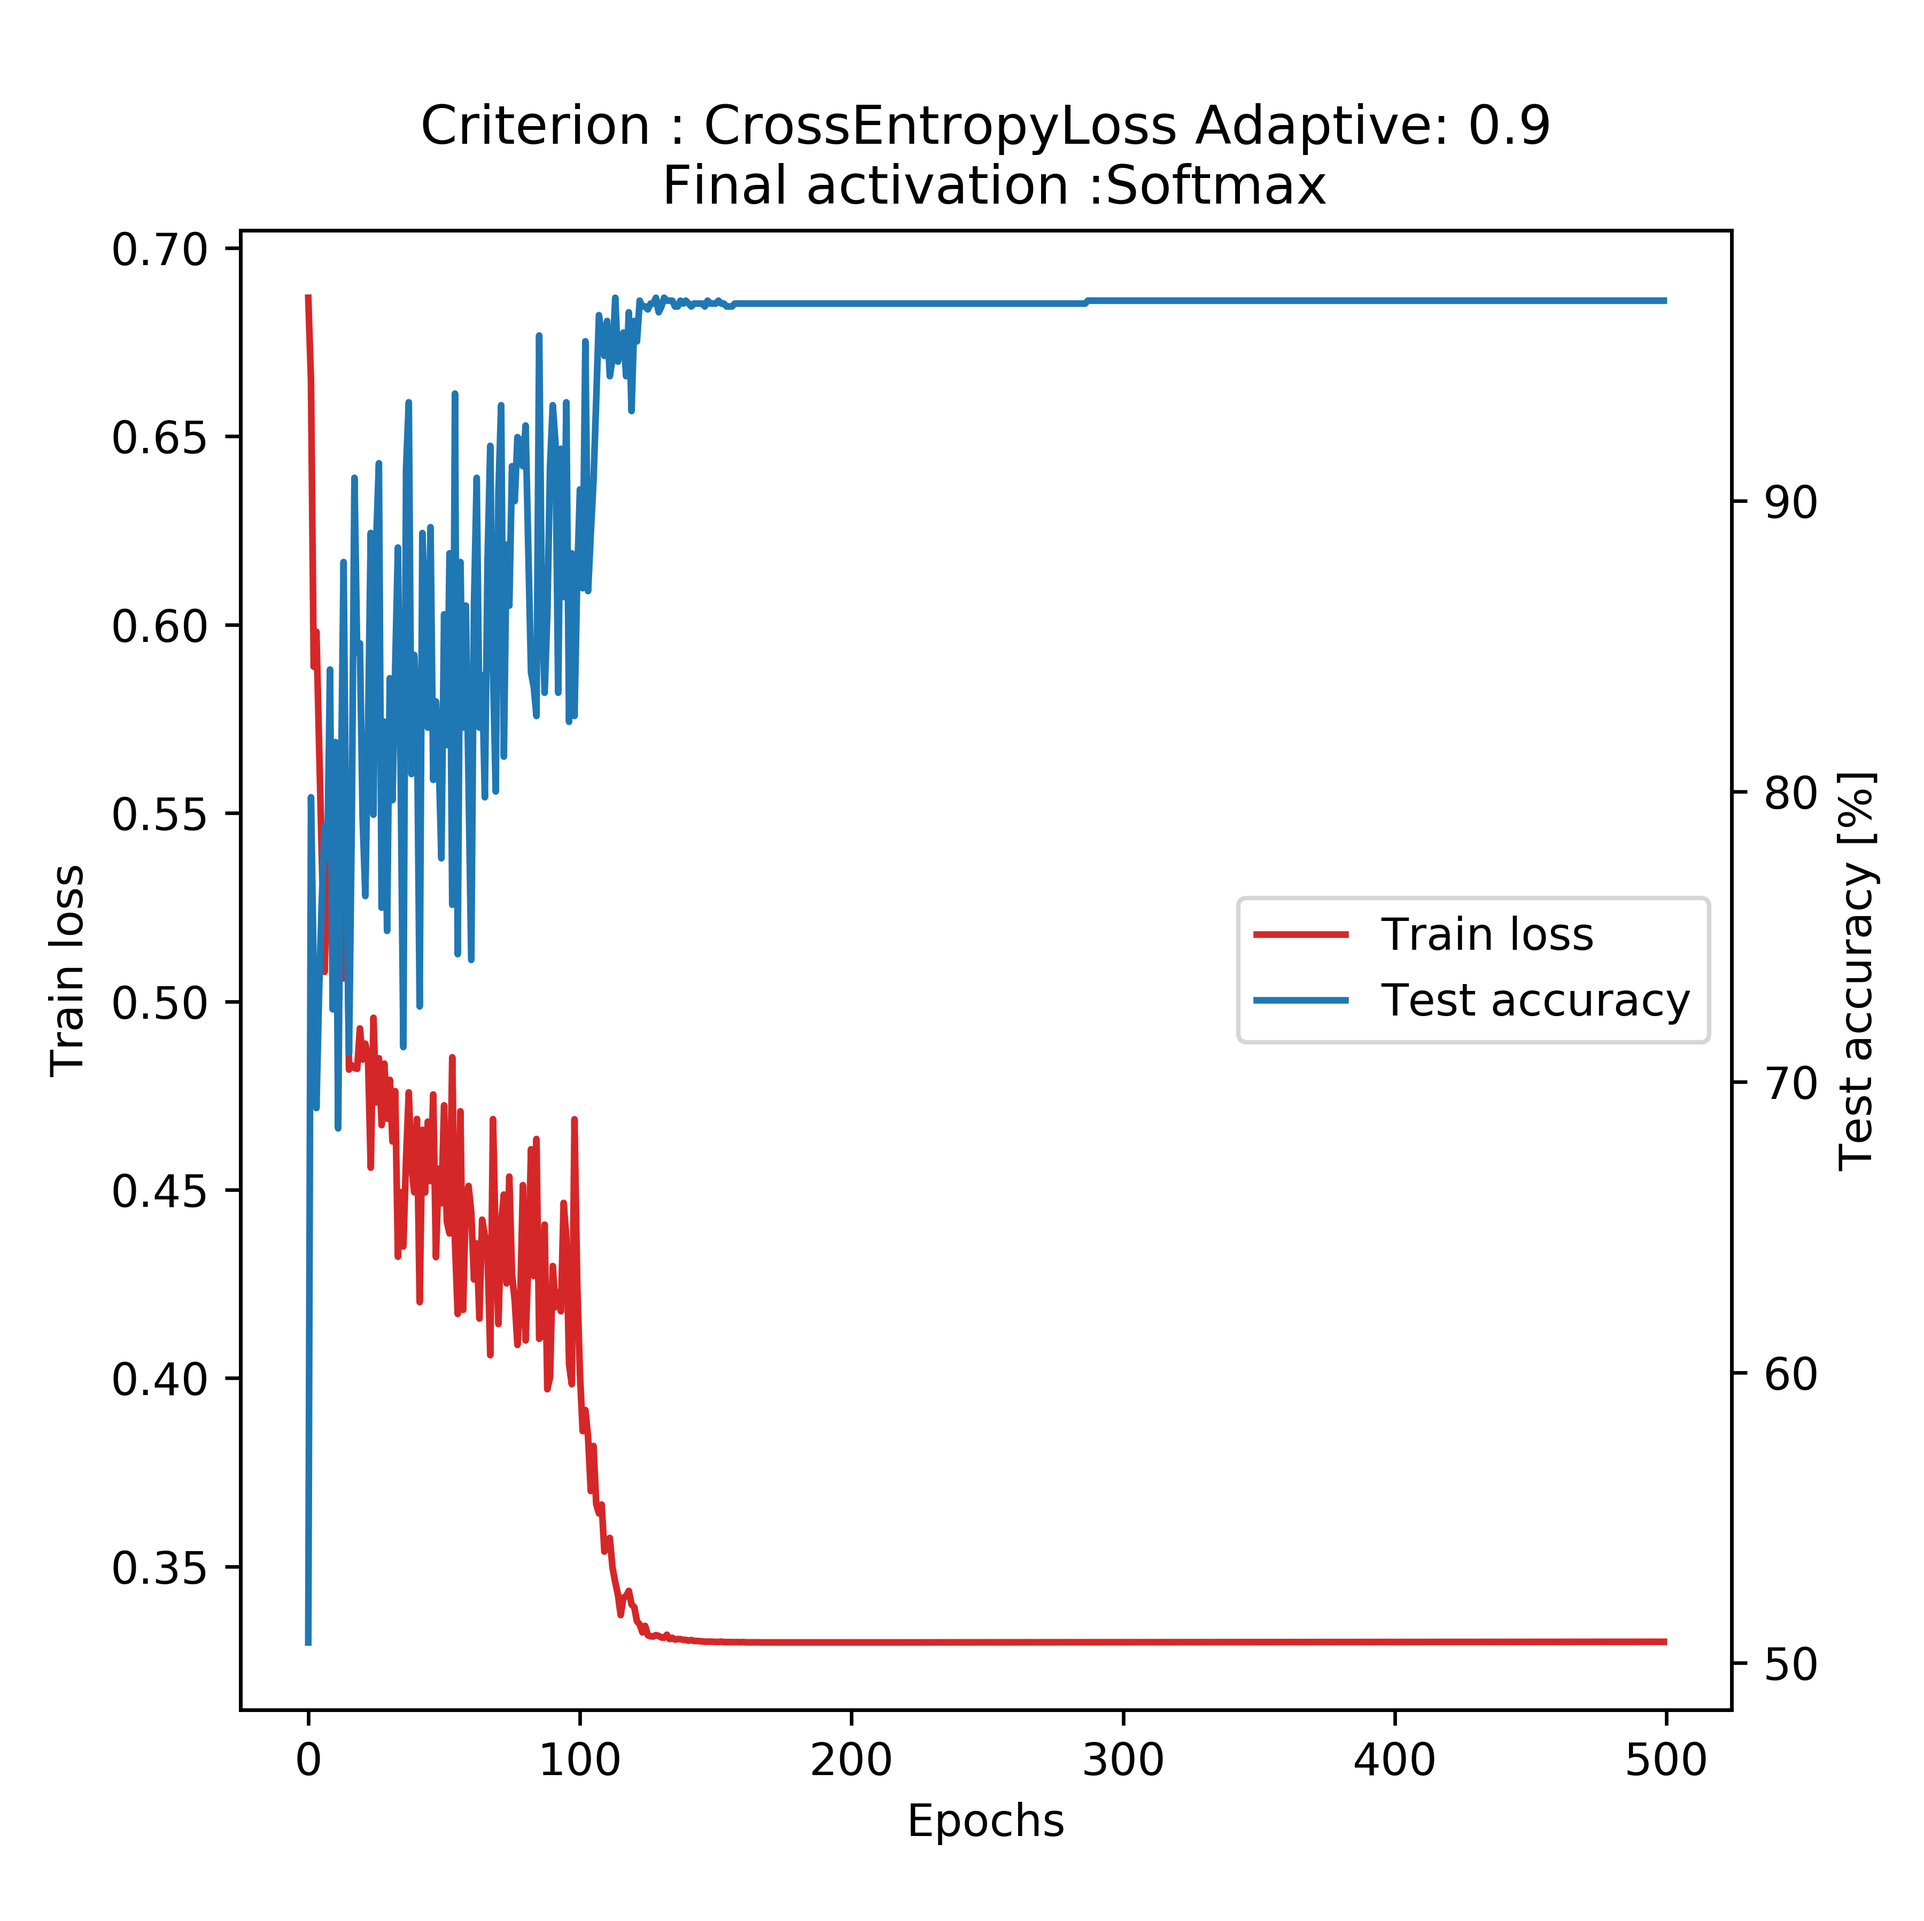
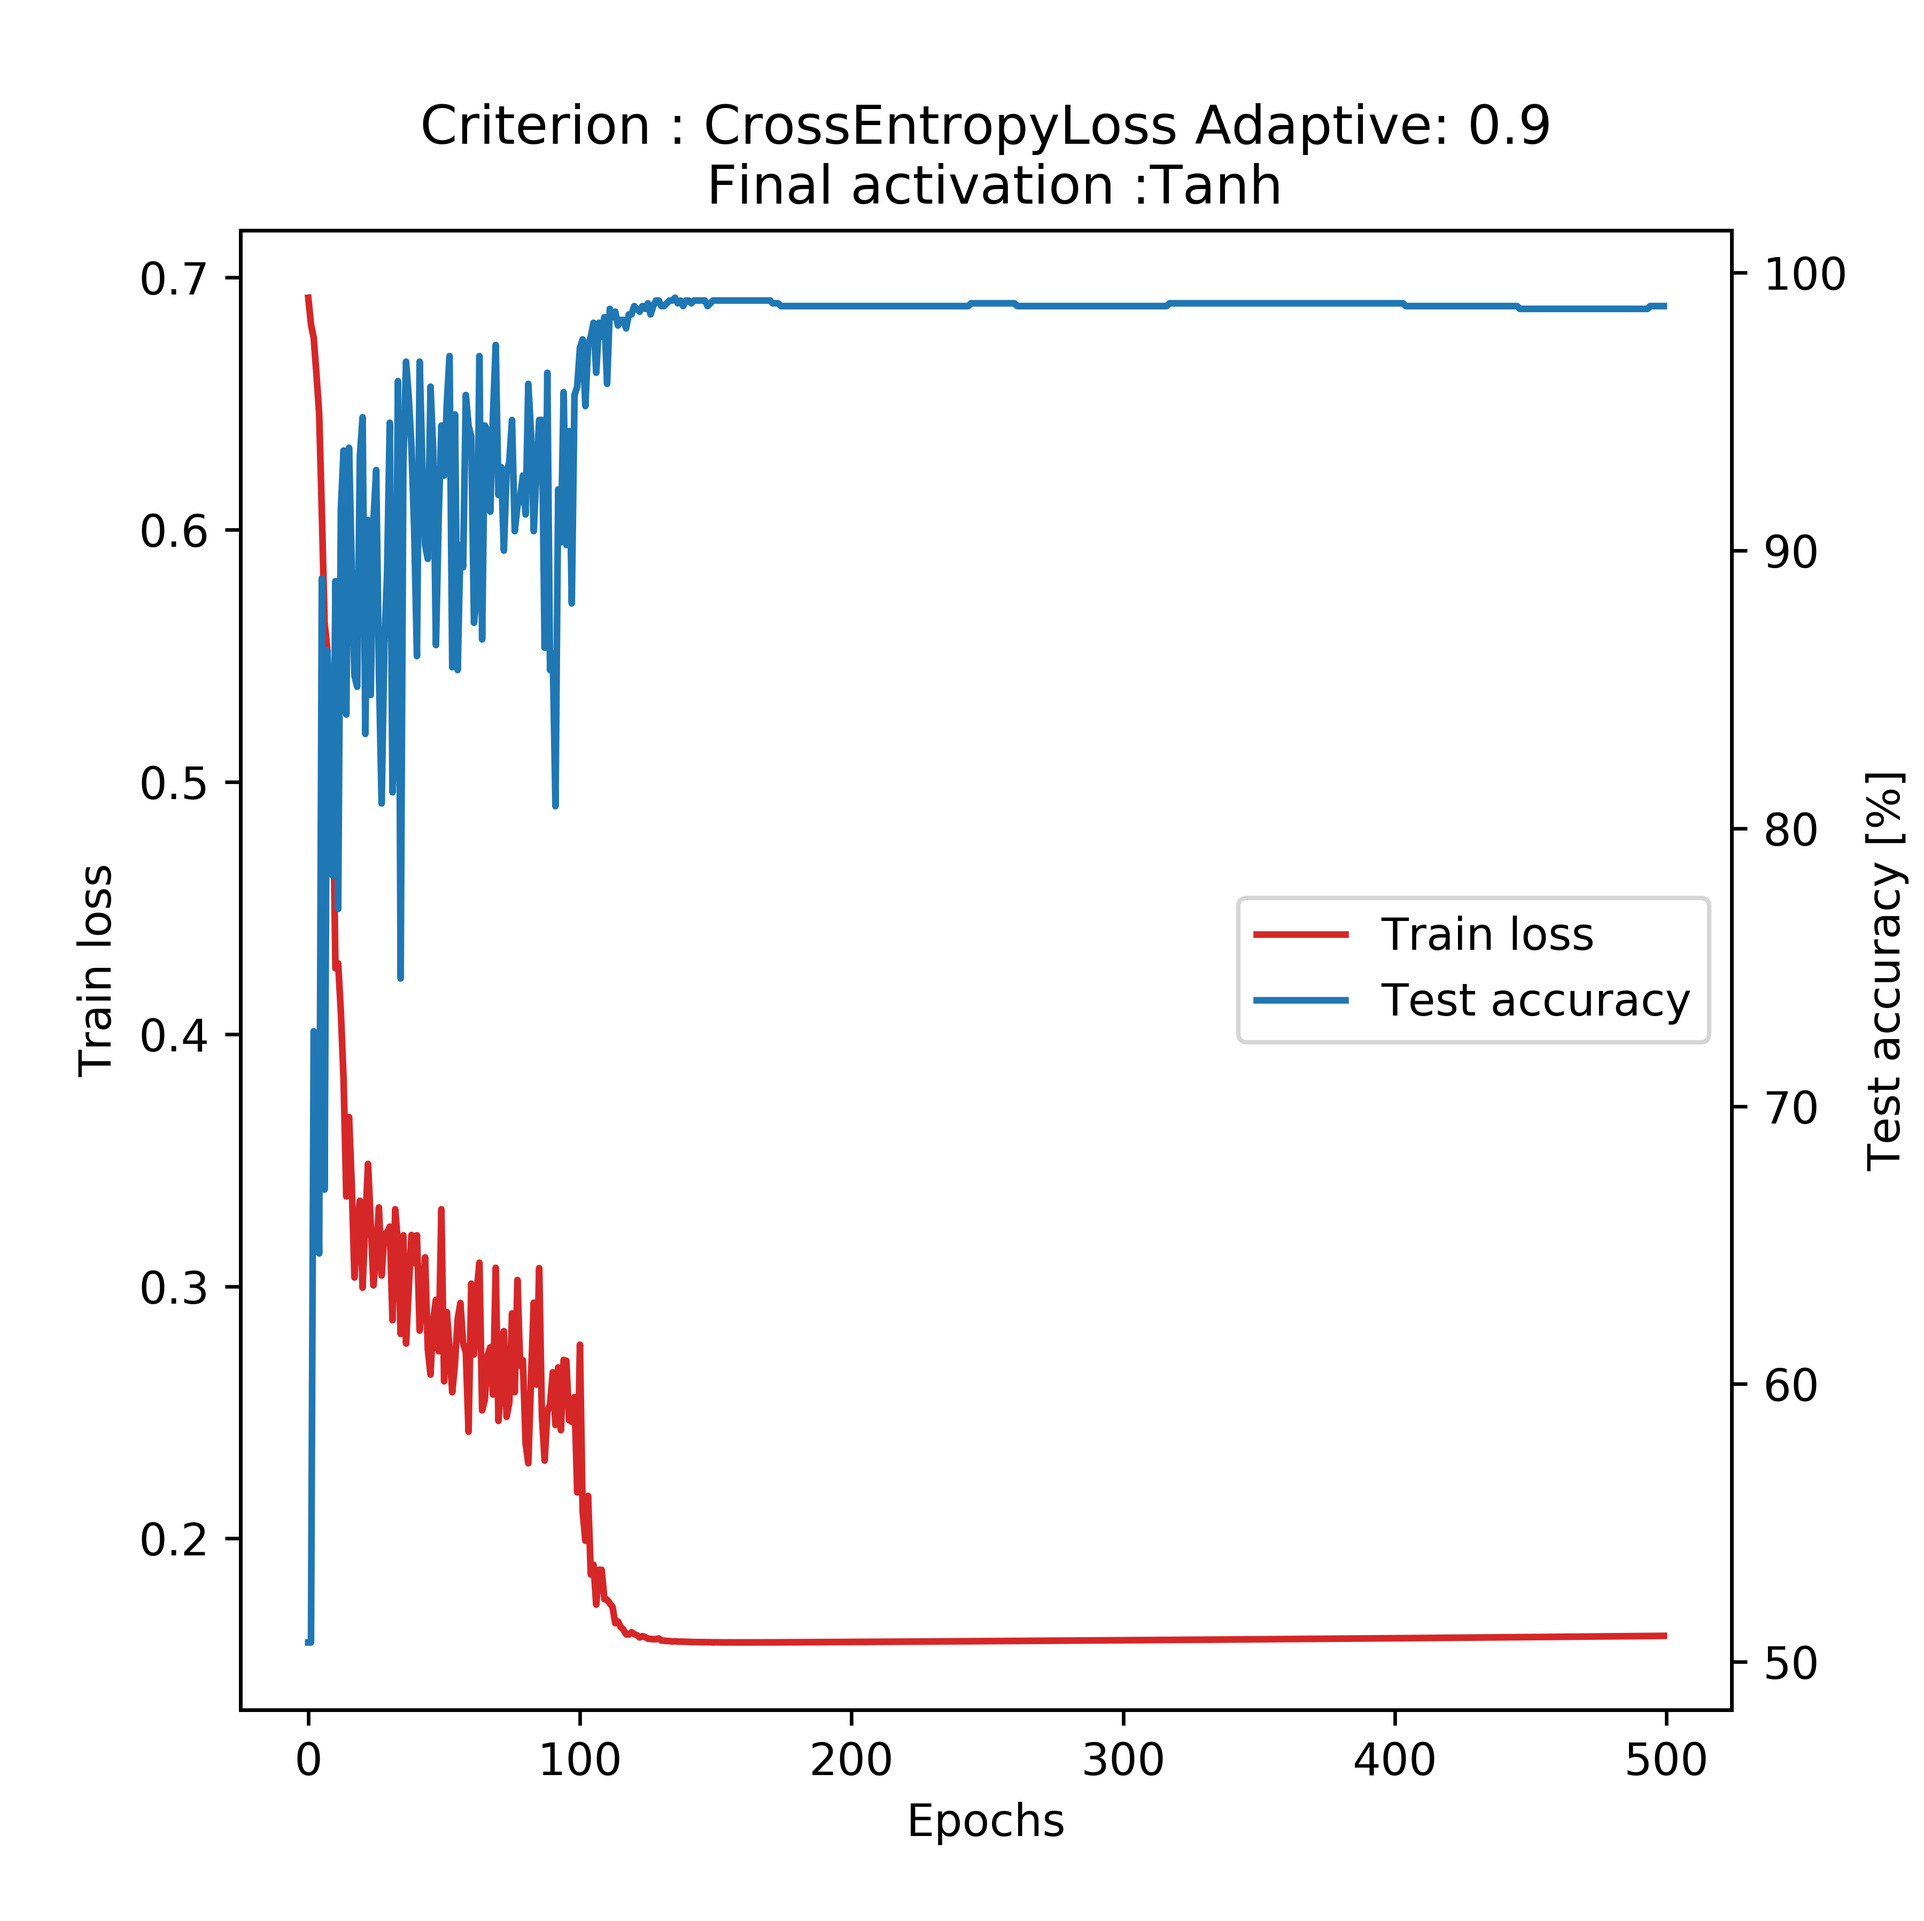
all fixed

diff --git a/helpers.py b/helpers.py
@@ -143,11 +143,11 @@ def users_choices():
         print("OK: Let's choose!")
     if (choose == 'no'):
         print('OK: Our best model will be run')   
-        act_fun='softmax'
+        act_fun='tanh'
         criter='cross entropy' 
-        lr=5e-2
+        lr=4e-3
         adapt_lrd=0.9 
-        wd=1e-7
+        wd=1e-6
         plot=True
         plot_classif=False
         print('\n', 'Last layer activation function:', act_fun, '\n', 'Loss criterion:', criter, '\n', 'Learning rate:', lr, '\n', 
@@ -178,49 +178,49 @@ def users_choices():
     print('\n')
 
     # choose learning rate
-    lr = input("Please choose a learning rate in the range [1e-7, 10].\n>")
-    while (float(lr) > 10 or float(lr) < 1e-7):
+    lr = input("Please choose a learning rate in the range [1e-7, 1e-1].\n>")
+    while (float(lr) > 1e-1 or float(lr) < 1e-7):
         print('ERROR:', lr, 'is not valid!')
-        lr = input('Please choose again between in the range [1e-7, 10].\n>')       
-    if (float(lr) <= 10 and float(lr) >= 1e-7):
+        lr = input('Please choose again between in the range [1e-7, 1e-1].\n>')       
+    if (float(lr) <= 1e-1 and float(lr) >= 1e-7):
         lr = float(lr)
         print('OK:', lr, 'is selected as learning rate.')
 
     print('\n')
     
     # choose adaptive learning rate or not
-    adapt_lrd = input("Please choose a decay value for adaptive learning rate decay in the range [1e-3, 10] or write 'no'.\n>")
+    adapt_lrd = input("Please choose a decay value for adaptive learning rate decay in the range [1e-1, 1] or write 'no'. Typical values range from 0.5 to 0.9.\n>")
     if (adapt_lrd == 'no'):
         adapt_lrd = False
         print('OK: adapative learning rate decay won\'t be used.') 
     if (adapt_lrd != False):
-        while (float(adapt_lrd) > 10 or float(adapt_lrd) < 1e-3):
+        while (float(adapt_lrd) > 1 or float(adapt_lrd) < 1e-1):
             print('ERROR:', adapt_lrd, 'is not valid!')
             adapt_lrd = input("Please choose again in the range [1e-3, 10] or write 'no'.\n>")   
             if (adapt_lrd == 'no'):
                 adapt_lrd = False
                 print('OK: adapative learning rate decay won\'t be used.') 
                 break
-        if (float(adapt_lrd) <= 10 and float(adapt_lrd) >= 1e-3):
+        if (float(adapt_lrd) <= 1 and float(adapt_lrd) >= 1e-1):
             adapt_lrd = float(adapt_lrd)
             print('OK:', adapt_lrd, 'is selected as learning rate decay.')
 
     print('\n')
     
     # choose weight decay or not
-    wd = input("Please choose a weight decay in the range [1e-10, 1] or write 'no'.\n>")
+    wd = input("Please choose a weight decay in the range [1e-10, 1e-5] or write 'no'.\n>")
     if (wd == 'no'):
         wd = False
         print('OK: weight decay won\'t be used.') 
     if (wd != False):
-        while (float(wd) > 1 or float(wd) < 1e-10):
+        while (float(wd) > 1e-5 or float(wd) < 1e-10):
             print('ERROR:', wd, 'is not valid!')
-            wd = input("Please choose again in the range [1e-10, 1] or write 'no'.\n>")   
+            wd = input("Please choose again in the range [1e-10, 1e-5] or write 'no'.\n>")   
             if (wd == 'no'):
                 wd = False
                 print('OK: weight decay won\'t be used.') 
                 break
-        if (float(wd) <= 1 and float(wd) >= 1e-10):
+        if (float(wd) <= 1e-5 and float(wd) >= 1e-10):
             wd = float(wd)
             print('OK:', wd, 'is selected as weight decay.')    
 
